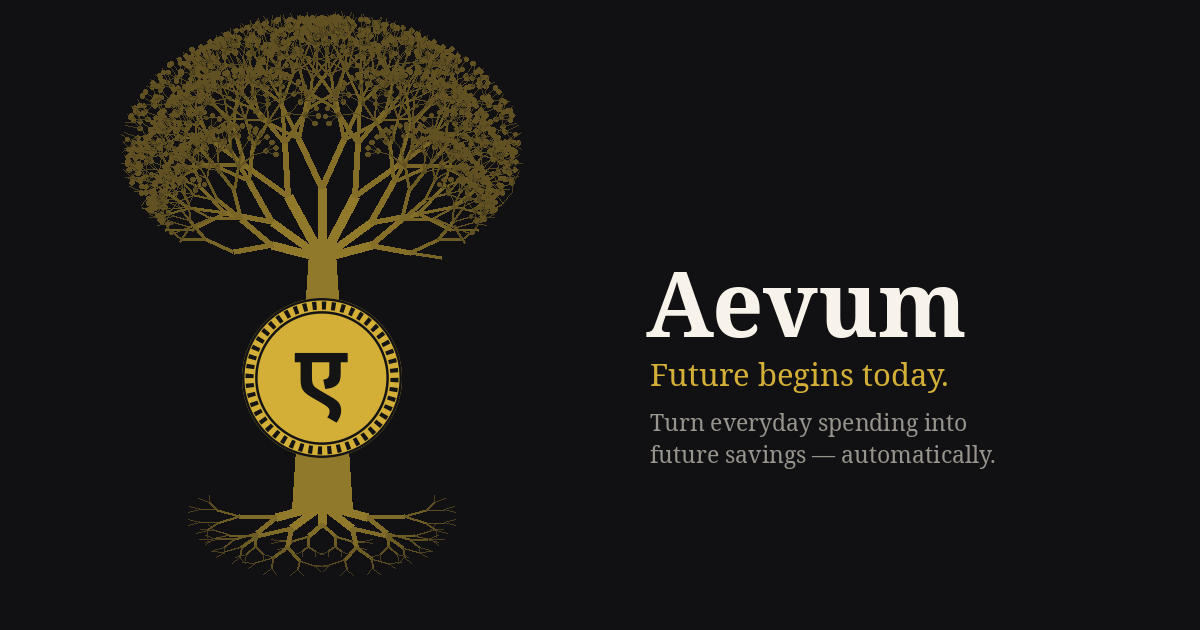
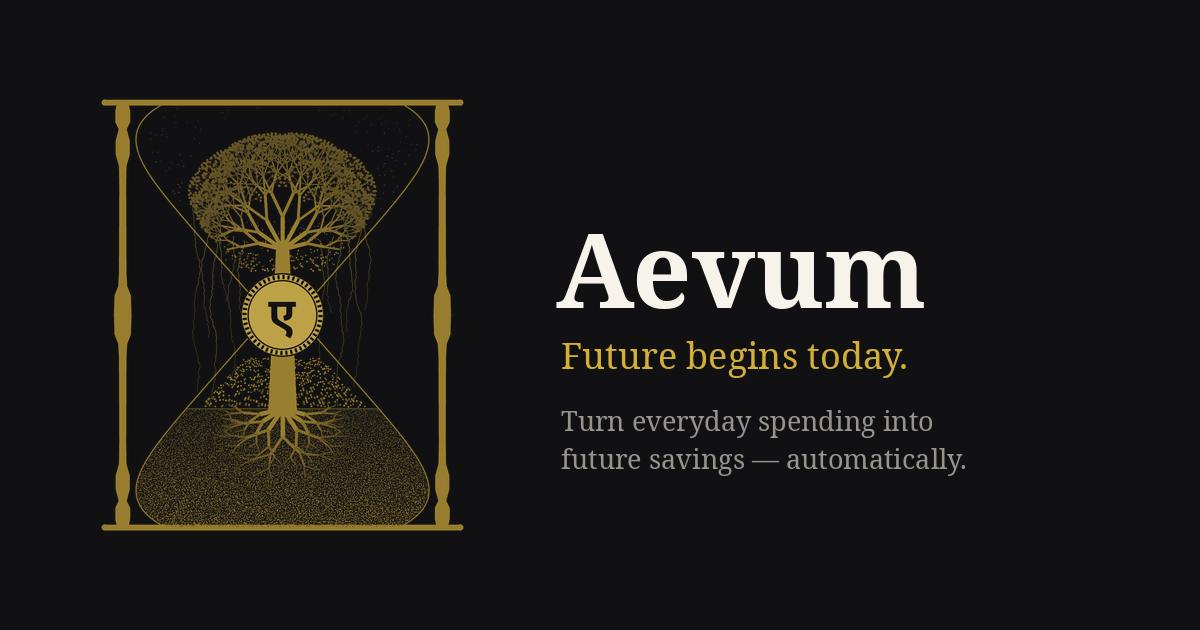
chore(brand): become a thin consumer of aevum-brand; add org AUTHORS
.github stops being the brand source of truth and becomes what its name says: the
org's profile page, plus the community-health files GitHub applies org-wide.

Removes brand-dispatch.yml. This repo cannot be the dispatcher, because the
dispatcher has to live with the generator and the generator cannot live here —
GitHub renders an org profile only from a PUBLIC .github repo, and a public repo
is the wrong home for the brand system's only assembled copy. Both now live in
the private aevum-brand, which pushes here like any other consumer.

branding.json stays, but as a received MIRROR rather than the authored source: it
keeps a public read path and a drift-check fallback for anything that would
rather pull than be pushed to.

AUTHORS.md comes over from aevum-finance — it is repo-agnostic (an authorship
record, no relative links), so it is correct as an org-wide default.

CONTRIBUTING.md deliberately does NOT: it is a superproject guide. GitHub serves
an org-level CONTRIBUTING as the fallback for every repo lacking its own, so
placing it here would tell an aevum-api contributor to `cd backend` — a path that
does not exist in that repo — and every relative link in it (ARCHITECTURE.md,
USER_GUIDE/, backend/CONTRIBUTING.md) would 404. It stays in aevum-finance.

The badge and banners here are pushed by aevum-brand; do not edit them in place.

Changed region(s): [[0.0925, 0.0, 0.4317, 0.9048], [0.4625, 0.3619, 0.8325, 0.754]]

diff --git a/AUTHORS.md b/AUTHORS.md
@@ -1,0 +1,18 @@
+# Authors
+
+Aevum was **designed and built end-to-end by Rohit Solanki** — domain model, service
+architecture, business logic, asynchronous data layer, background processing, security
+systems, administrative tooling, the financial-calculation engines, the API surface, the
+test suite, and the developer/user documentation. The accompanying React client was built
+by the same author to consume and exercise the API.
+
+**Rohit Solanki** — Creator & Architect · Backend Engineer
+- GitHub: https://github.com/RohitSSolanki/
+- Aevum org: https://github.com/Aevum-Finance
+- Site: https://rohitsolanki.in
+
+---
+
+> This is a factual authorship record for the **repo / developer layer**. It is not marketing
+> copy and is intentionally decoupled from Aevum's product front — the product identity and the
+> author's personal identity may link, but do not merge.

diff --git a/profile/README.md b/profile/README.md
@@ -6,15 +6,17 @@
   to render on the org page, swap each src/srcset for the absolute raw URL:
     https://raw.githubusercontent.com/Aevum-Finance/.github/main/profile/product-banner-dark.png
 
-  CANONICAL BRAND SoT: ../branding.json (this repo's root). It is the single public source
-  the app (aevum-web / aevum-api) and the personal site consume. The block between the
+  BRAND SoT: the private aevum-brand repo. ../branding.json here is a received MIRROR (kept
+  for a public read path), pushed by that repo's dispatcher — edit it there, never here. The
+  banners beside this file are pushed the same way. The block between the
   BRAND:start and BRAND:end markers below (one_liner, tagline, description, story.name,
-  description_long) is GENERATED FROM branding.json — edit the JSON, not the block
-  (aevum-marketing's build_brand.py regenerates + publishes both here). "How it works" + Explore
-  are hand-authored. Keep it why-then-how.
+  description_long) is GENERATED from branding.json — edit the JSON in aevum-brand, not this
+  block (its build_brand.py regenerates and its dispatcher publishes here). "How it works" +
+  Explore are hand-authored. Keep it why-then-how.
 
-  Guardrails honoured: currency-neutral, no "Founder" (role = Creator & Architect), no
-  commercial/monetization framing, no hint of any future-selves / committee mechanism.
+  Guardrails: this page is a PUBLIC surface. Before editing, read the brand guardrails in
+  the private brand repo (aevum-brand) — do not restate them here. Enumerating a constraint
+  names the thing it protects, and this file is world-readable.
 -->
 
 <div align="center">